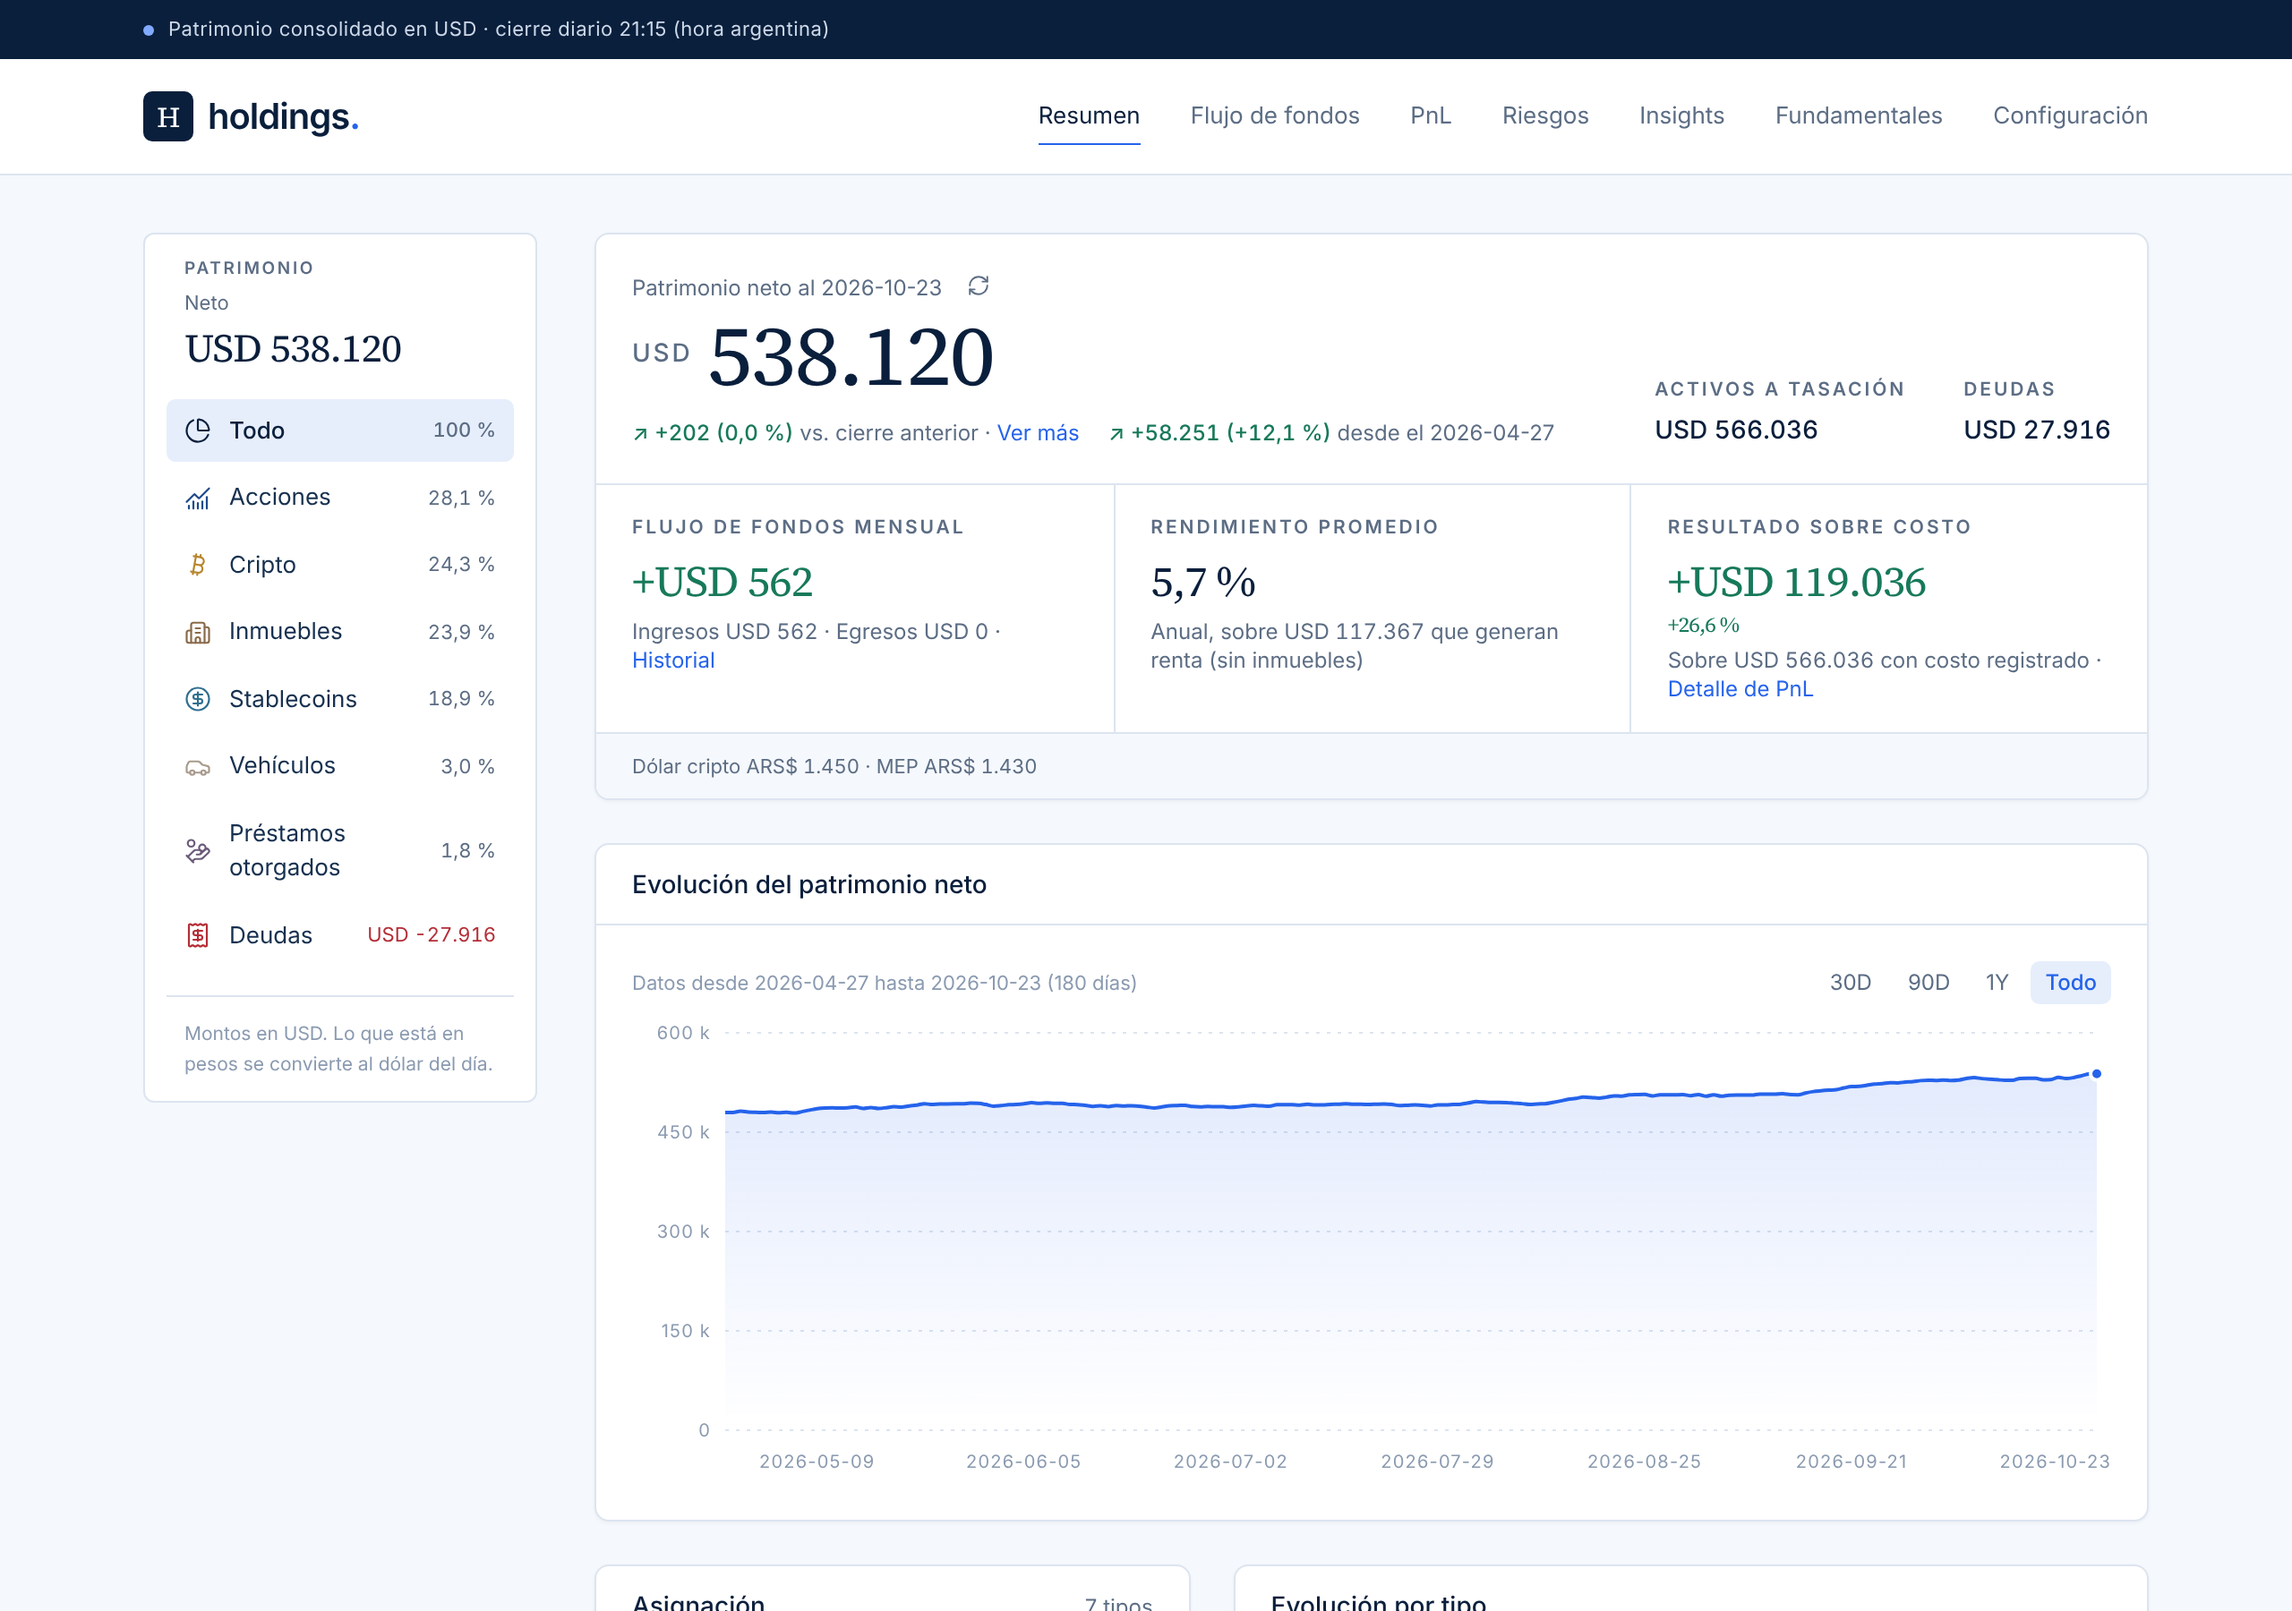
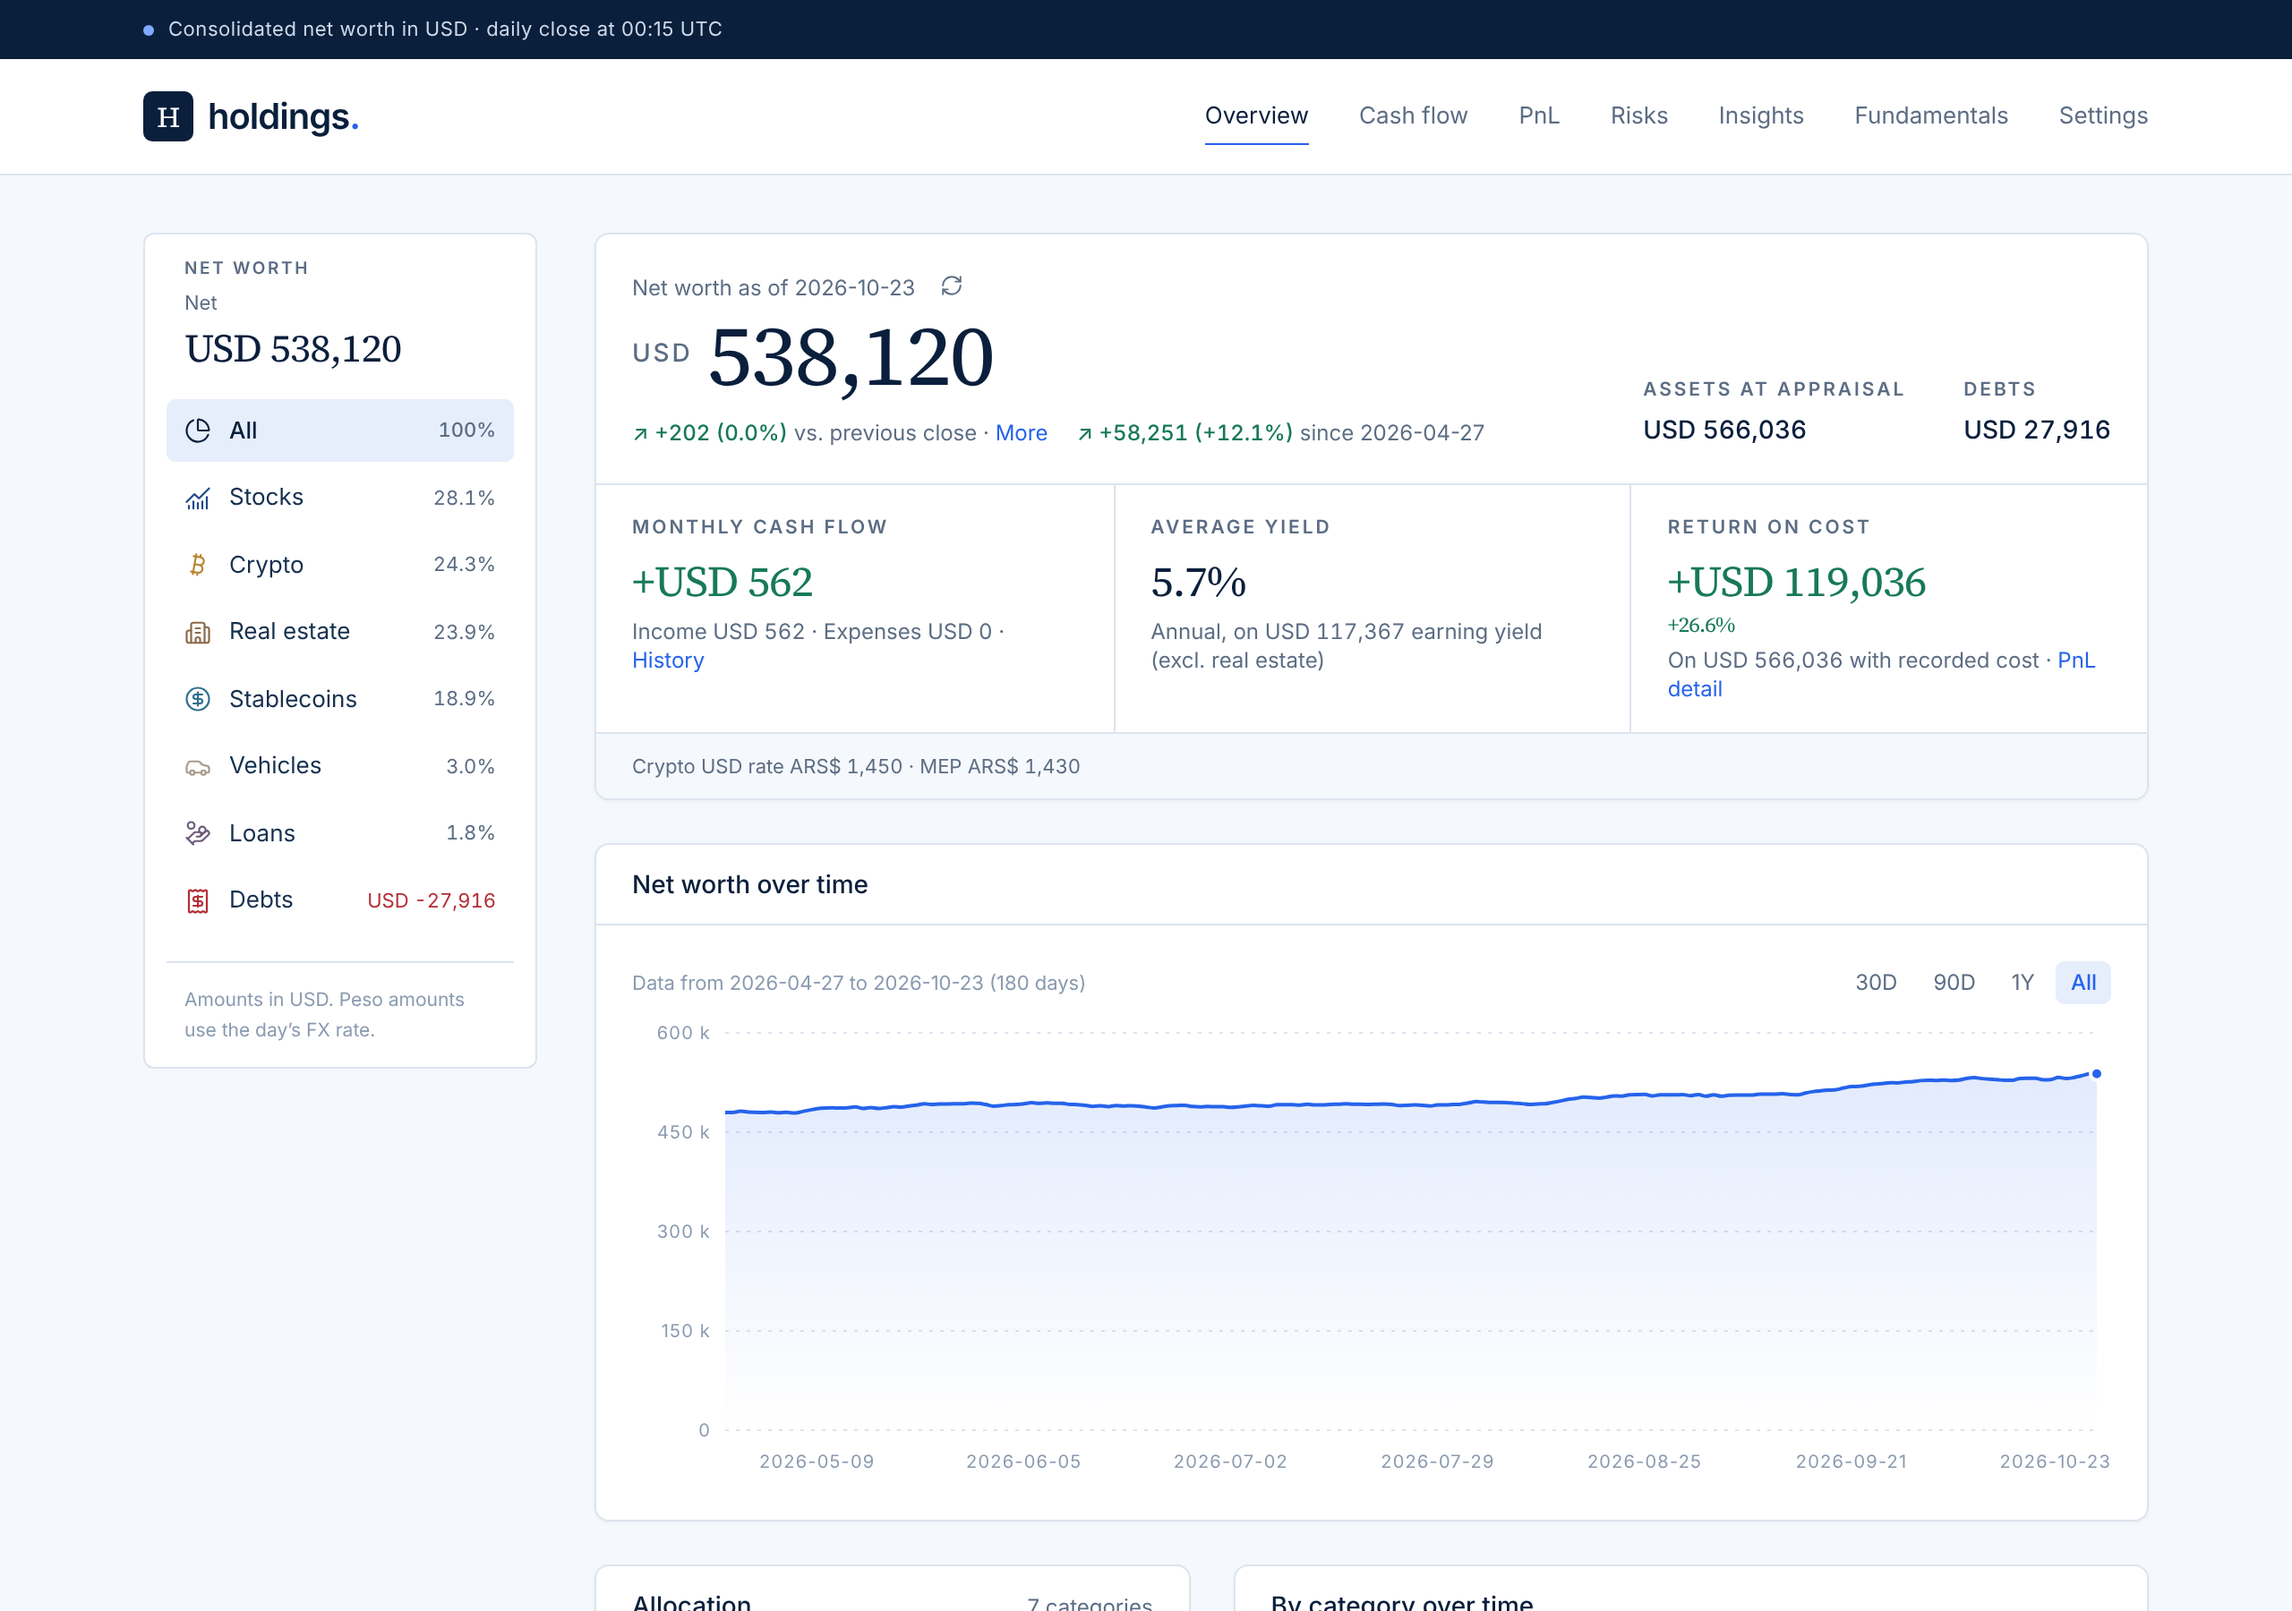
README: English screenshots and stocks view
Claude-Session: https://claude.ai/code/session_01Lm3RxhaECet2EihPuWNh9d

diff --git a/README.md b/README.md
@@ -5,12 +5,15 @@ Track your entire portfolio and receive insights and risk alarms on Telegram.
 A single-user net worth dashboard: crypto wallets, brokers, real estate, loans and cash, all consolidated in USD with a daily close, charts, PnL and monthly cash flow. Built with Next.js, Postgres (Neon) and Vercel. The UI is in Spanish and the peso conversions are built for Argentina (dólar cripto and MEP).
 
 <p>
-  <img src="docs/screenshots/dashboard.png" alt="Dashboard" width="68%">
+  <img src="docs/screenshots/dashboard.png" alt="Overview" width="68%">
   <img src="docs/screenshots/mobile.png" alt="Mobile, dark mode" width="23%">
 </p>
-<p><img src="docs/screenshots/pnl.png" alt="PnL by asset" width="68%"></p>
+<p>
+  <img src="docs/screenshots/stocks.png" alt="Stocks category" width="45%">
+  <img src="docs/screenshots/pnl.png" alt="PnL by asset" width="45%">
+</p>
 
-<sub>Screenshots with dummy data.</sub>
+<sub>Screenshots with dummy data. Labels shown in English; the app UI is in Spanish.</sub>
 
 ## Features
 
